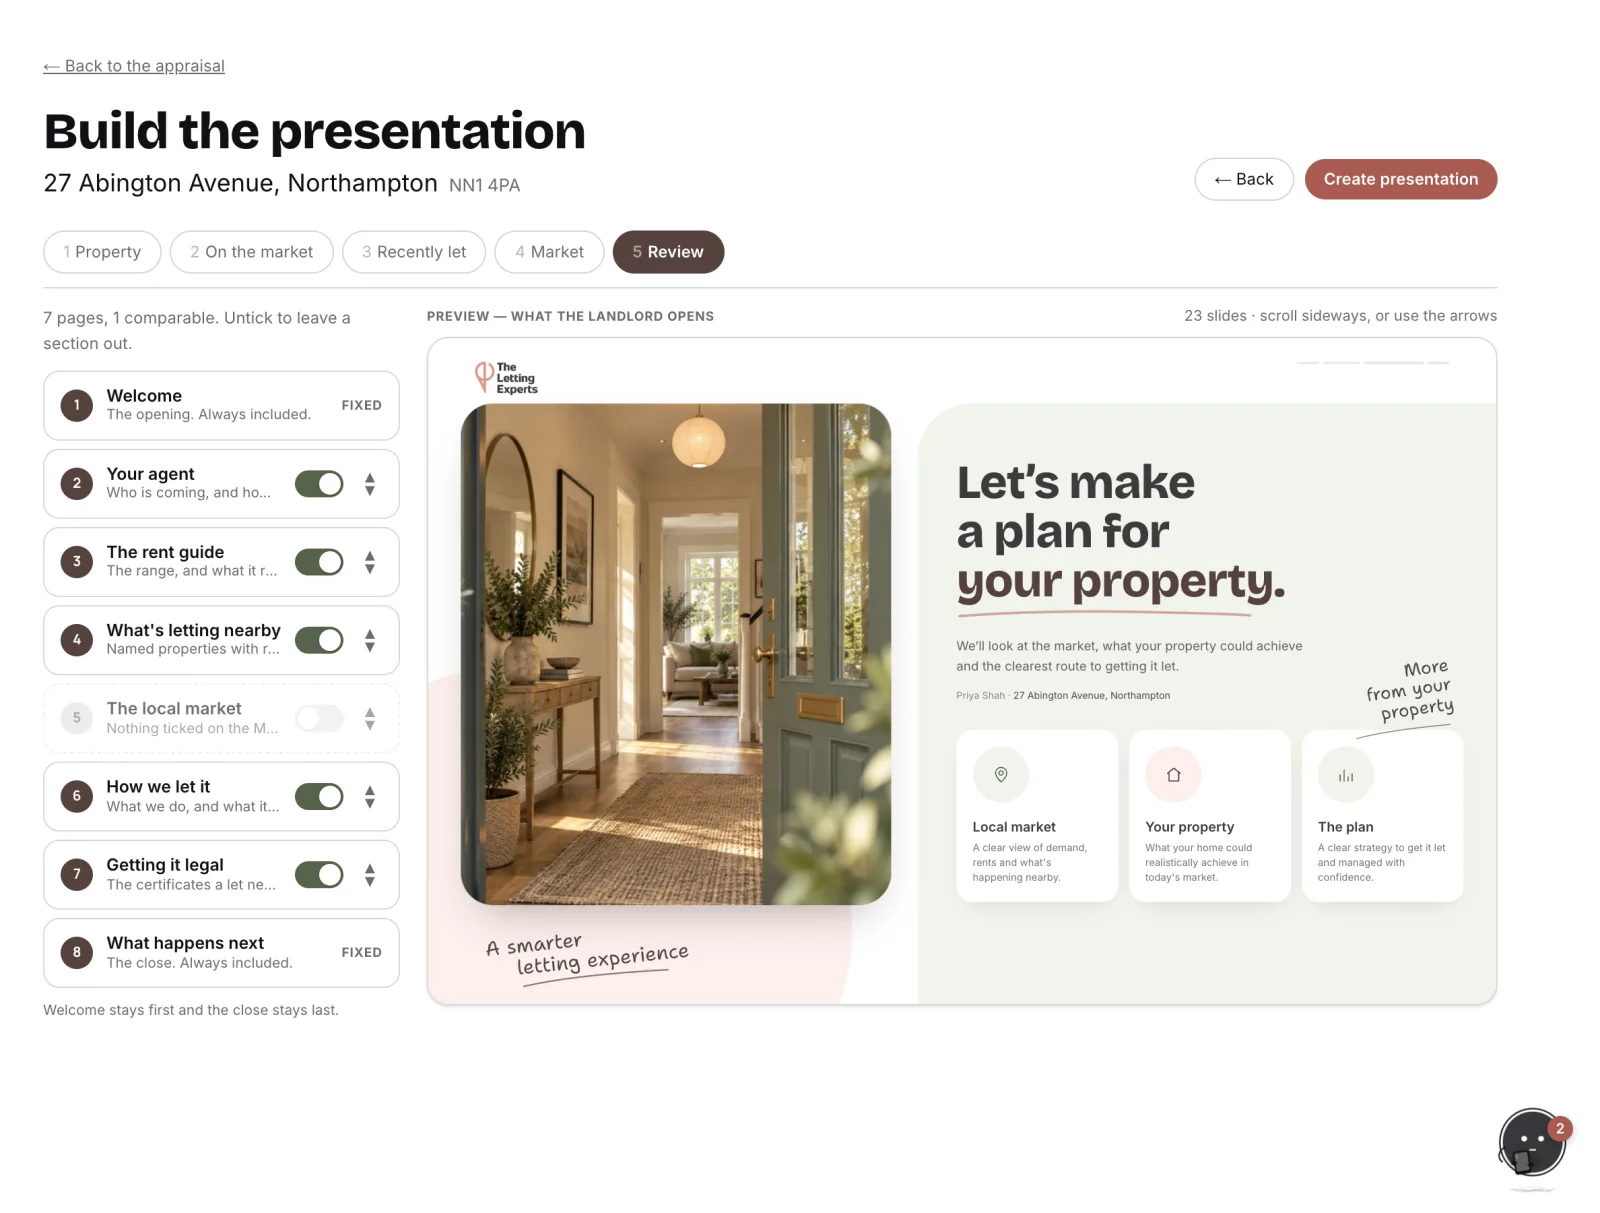
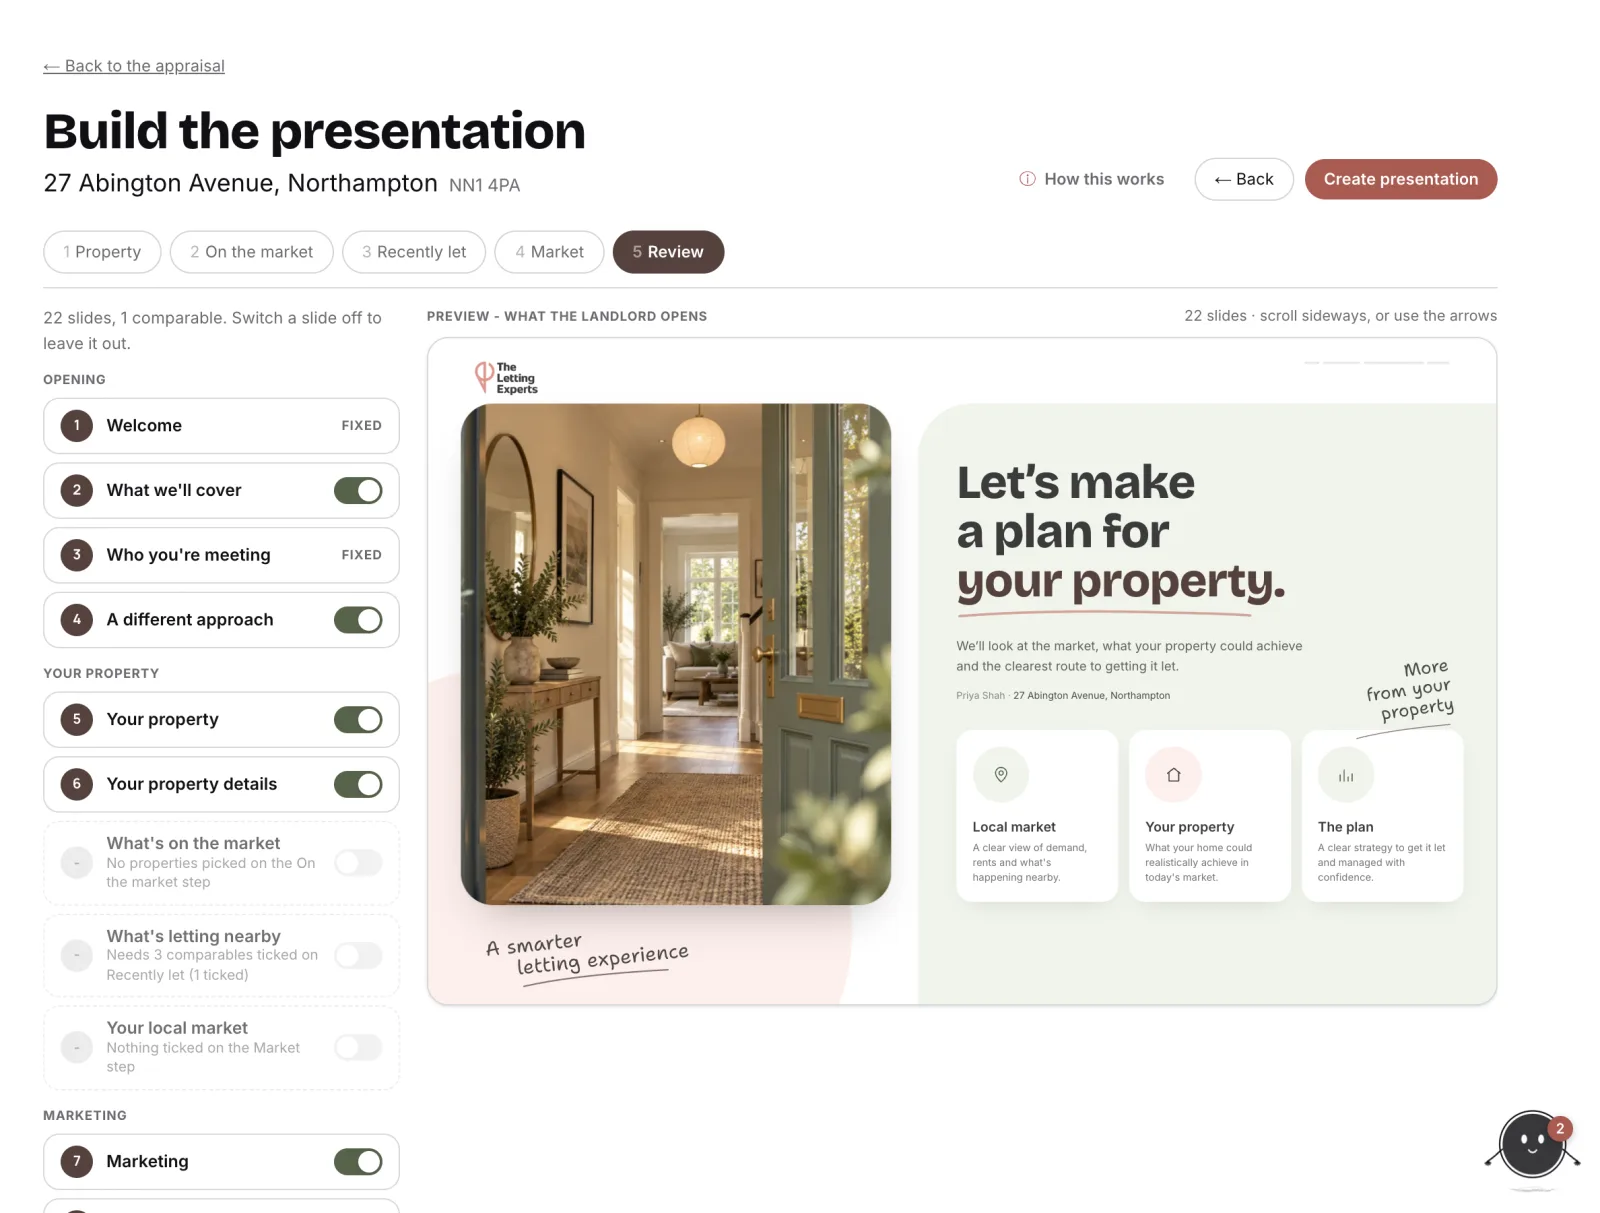
The appraisals guide describes the rent guide and Review as they now work
Pictures of the builder retaken after the guide fix: the Market step's two named figures, the tick list, and Review's real slides with switches. The quoted warning lines match the new wording.

diff --git a/lib/agent-guides.ts b/lib/agent-guides.ts
@@ -204,9 +204,9 @@ export const AGENT_GUIDES: Guide[] = [
         title: "How Your Best-Price Guide Is Worked Out",
         body: "The best-price guide is three figures: a low, a middle and a high monthly rent. It is worked out from homes we let ourselves rather than from adverts, so every figure in it rests on a property you can name and talk about with confidence.",
         image: img("ma-build-guide"),
-        caption: "The guide as the Market step shows it. The deck works it out again from the homes you ticked.",
+        caption: "On the Market step: the guide going in the presentation, from the homes you ticked, and underneath it the guide from everything found.",
         how: "The chosen homes are put in rent order, and the guide takes the rents a quarter, half and three quarters of the way up the list. That is the middle half of real rents, so one expensive penthouse cannot drag the figure up. The search starts in the same postcode sector and widens to the district, then the whole postcode area, until it has at least four homes to work from.",
-        why: "Always read the line under the figure before you quote it. 'Only 2 comparables nearby, indicative' means treat it as a starting point. 'Across the wider area' means it is background, not evidence. 'The local spread is very wide' means quote from the named homes rather than the range.",
+        why: "Always read the line under the figure before you quote it. It says how far the homes reach, such as '1 in NN1 4, 2 further out', and warns you when to be careful. 'Only 3 comparables, so treat this as indicative' means it is a starting point. 'Across the wider area' means it is background, not evidence. 'The spread is very wide' means quote from the named homes rather than the range.",
       },
       {
         title: "The Local Market",
@@ -217,9 +217,9 @@ export const AGENT_GUIDES: Guide[] = [
       },
       {
         title: "Review, Then Create",
-        body: "Review lists the pages of the deck on the left and shows the real presentation on the right, exactly as the landlord will see it. Read it through, and when it reads right, press Create presentation.",
+        body: "Review lists every page of the deck on the left, grouped the way the deck is, and shows the real presentation on the right, exactly as the landlord will see it. Switch off any page you want to leave out. Read it through, and when it reads right, press Create presentation.",
         image: img("ma-build-review"),
-        how: "The rent guide and the homes behind it only go in the deck when at least three of ours are ticked on Recently let. With fewer, the page is left out, because two homes make a landlord think we do not know their street. If it is missing from the preview, go back and tick more.",
+        how: "A greyed-out page tells you what it is waiting for. The rent guide and the homes behind it only go in when at least three of ours are ticked on Recently let, because two homes make a landlord think we do not know their street. What's on the market needs properties picked, and the local market needs a block put on a slide.",
         sends:
           "Nothing yet. Creating the presentation makes it and a private link to it, which you present from View presentation on the file on the day. The link lasts 14 days after the visit, and the file shows you each time the landlord opens it.",
       },
